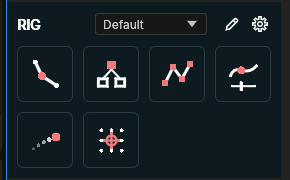
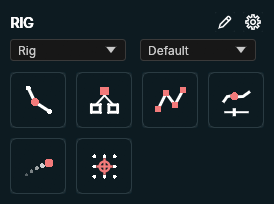
Motion Kit: screenshots of every view
Replaces the README previews with captures of the current panel: the
combined view and its edit mode, then the Animate, Rig, Shapes, Comp and
Menu views. Each is cropped to the panel's own bounds. The old combined
preview was from before the view switcher, and the edit-mode one was cut
off below the fifth row.

diff --git a/scriptui-panels/MotionKit/README.md b/scriptui-panels/MotionKit/README.md
@@ -2,7 +2,7 @@
 
 24 motion design tools and 5 inline widgets for EffectCraft, in one dockable panel. Its view list switches between the combined view (every widget and tool), one category at a time, and a compact menu. You can rearrange and restyle every view.
 
-<img src="preview.png" alt="The combined Motion Kit panel: ease sliders, key copy and paste, interpolation buttons, anchor grid, sequencer and icon-only tool buttons on a dark blue-green background" width="290"> <img src="preview-edit.png" alt="The same panel in edit mode, with dashed outlines and a remove button on every cell" width="280"> <img src="preview-rig.png" alt="Motion Kit 2, the Rig panel, sized to its six buttons" width="290">
+<img src="preview-combined.png" alt="The Motion Kit panel in its combined view: the ease sliders, Key Copy/Paste, Interpolation, Anchor and Sequencer widgets, then icon-only tool buttons on a dark blue-green background" width="274"> <img src="preview-edit.png" alt="The same panel in edit mode: dashed outlines, a remove button on every cell, and a + cell at the end" width="274">
 
 ## Install
 
@@ -11,6 +11,8 @@ In EffectCraft, use File ▸ Scripts ▸ Install ScriptUI Panel… for `dist/Mot
 - **Combined:** the widgets, then every tool;
 - **Animate**, **Rig**, **Shapes**, **Comp:** one category each (named after the layout's panels 1–4);
 - **Menu:** every tool from two dropdowns.
+
+<img src="preview-animate.png" alt="The Animate view: the command box and the eight Animate tools" width="274"> <img src="preview-rig.png" alt="The Rig view: six Rig tools" width="274"> <img src="preview-shapes.png" alt="The Shapes view: six Shapes tools" width="274"> <img src="preview-comp.png" alt="The Comp view: four Comp tools" width="274"> <img src="preview-menu.png" alt="The Menu view: a category list and a tool list, Run, Options and Layout & Style buttons, and the command box" width="294">
 
 To dock several views at once, also install the optional single panels in `dist/extra/`: `Motion Kit 1.jsx` to `Motion Kit 4.jsx` and `Motion Kit Menu.jsx`. Each adds its own Window menu entry. Once EffectCraft supports submenus in the Window menu, put them in a "Motion Kit" subfolder of the ScriptUI Panels folder; until then, install them at the top level like `Motion Kit.jsx`.
 
